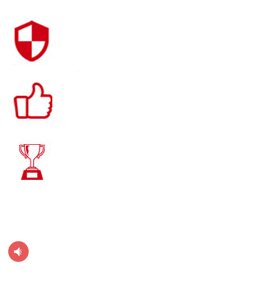
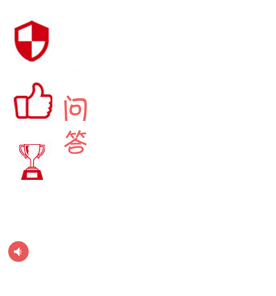
news

Changed region(s): [[0.2319, 0.3041, 0.3188, 0.5473]]

diff --git a/api.js b/api.js
@@ -11,57 +11,6 @@ var pool = mysql.createPool({
     database: 'qqzh'
 });
 
-var meituMenus = [
-    {url: '/all', type: 'all', name: '全部分类', title: '精品美图_美图写真_阿顺美图', keyword: '美女图片,美女写真,妹子,美女,mm,阿顺美图', desc: '阿顺美图专门收集整理全网超高清的美女写真网站,分享各类美女图片、丝袜美腿、性感MM、清纯妹子等极品美女写真;全部超高清无杂乱水印！'},
-    {url: '/t/nvshen/', type: 'nvshen', name: '女神', title: '女神_性感女神_宅男女神排行榜_超高清女神写真套图', keyword: '性感女神,宅男女神,女神图片,女神排行榜', desc: '阿顺美图整理的女神套图，都是宅男心目中的性感女神、所有图片都是超高清，并有排行榜单'},
-    {url: '/t/jipin/', type: 'jipin', name: '极品', title: '极品美女图片_超高清极品美女写真套图', keyword: '极品美女,极品美女图,极品美女写真', desc: '阿顺美图整理的极品美女写真套图，全部超高清，有极品性感美女，极品清纯美女，极品诱惑美女，日本极品美女等'},
-    {url: '/t/nenmo/', type: 'nenmo', name: '嫩模', title: '嫩模_嫩模图片_日本嫩模写真_超高清嫩模套图在线欣赏', keyword: '嫩模图片,嫩模写真,日本嫩模', desc: '在线欣赏阿顺美图整理的超高清嫩模写真套图;包括国产性感嫩模图片,日本嫩模写真套图,台湾美腿嫩模等'},
-    {url: '/t/wangluohongren/', type: 'wangluohongren', name: '网络红人', title: '网络红人_网络红人美女_网络红人图片_网络红人排行榜', keyword: '网络红人图片,网络红人美女', desc: '阿顺美图整理的超高清网络红人美女图片'},
-    {url: '/t/fengsuniang/', type: 'fengsuniang', name: '风俗娘', title: '风俗娘|韩国风俗媚娘全套图_超高清韩国风俗娘官网全集套图', keyword: '风俗娘,风俗媚娘,韩国风俗娘,韩国风俗媚娘,风俗娘官网图片', desc: '在线欣赏阿顺美图整理的韩国风俗娘官网的全集套图;全部都是无水印,原尺寸的高清大图'},
-    {url: '/t/qizhi/', type: 'qizhi', name: '气质', title: '气质美女图片_气质美女生活照_超高清气质美女写真套图', keyword: '气质美女,气质美女生活照,气质美女图片', desc: '阿顺美图整理的气质美女写真套图，全部超高清；包括一些气质美女图片、生活照及一些性感的气质美女'},
-    {url: '/t/youwu/', type: 'youwu', name: '尤物', title: '性感尤物_尤物美女图片|超高清极品尤物写真套图', keyword: '尤物,尤物美女,性感尤物,尤物写真', desc: '阿顺美图整理的尤物美女写真套图，所有图片全部超高清，快来领略香艳尤物的养眼美图吧'},
-    {url: '/t/baoru/', type: 'baoru', name: '爆乳', title: '爆乳_爆乳美女诱惑_爆乳肥臀_爆乳妹子_超高清爆乳MM写真图片', keyword: '爆乳美女,爆乳诱惑,爆乳肥臀,爆乳妹子图片', desc: '阿顺美图整理的爆乳美女写真套图，海量超高清爆乳妹子、爆乳肥臀、丝袜诱惑等爆乳美女图片'},
-    {url: '/t/xinggan/', type: 'xinggan', name: '性感', title: '性感美女_超性感美女图片_超高清性感美女写真套图', keyword: '性感,性感美女,高清性感美女图片,超高清性感美女图', desc: '阿顺美图精选的性感美女写真套图，全部超高清；而且是超性感哦'},
-    {url: '/t/youhuo/', type: 'youhuo', name: '诱惑', title: '美女诱惑_性感美女诱惑图片_超高清诱惑美女写真套图', keyword: '诱惑图片,美女诱惑,诱惑美女写真,诱惑套图', desc: '阿顺美图精选整理的诱惑美女写真套图，室内诱惑，野外诱惑，场景诱惑，全部超高清！'},
-    {url: '/t/meixiong/', type: 'meixiong', name: '美胸', title: '美胸_美胸美女图片_超高清美胸模特写真套图', keyword: '美胸美女,美胸图片,高清美胸图', desc: '阿顺美图整理超高清美胸美女模特的写真套图，有日本的美胸美女，也是中国的美胸美女和欧美的'},
-    {url: '/t/shaofu/', type: 'shaofu', name: '少妇', title: '少妇_性感少妇图片_寂寞少妇_风骚少妇写真_超高清少妇图片大全', keyword: '少妇图片,性感少妇,寂寞少妇,风骚少妇', desc: '阿顺美图整理的极品少妇图片，全部超高清，都是套图。包括性感少妇、寂寞少妇、风骚少妇等少妇图片'},
-    {url: '/t/changtui/', type: 'changtui', name: '长腿', title: '长腿美女图片_街拍长腿美女_长腿丝袜_超短裙长腿美女_超高清长腿美女写真套图', keyword: '长腿美女,长腿丝袜,街拍长腿美女,超短裙长腿美女', desc: '阿顺美图整理的长腿美女图片, 高跟鞋长腿美女,都是超高清的图片,有专业的长腿丝袜美女写真套图、也有街拍长腿美女；'},
-    {url: '/t/mengmeizi/', type: 'mengmeizi', name: '萌妹子', title: '萌妹子_萌妹纸图片_超高清萌妹子写真套图', keyword: '萌妹子,天然萌妹子,萌妹纸图片,萌妹子写真', desc: '阿顺美图整理的萌妹子(萌妹纸)图片，都是超高清的大图！快来欣赏萌翻你的萌妹子吧'},
-    {url: '/t/loli/', type: 'loli', name: '萝莉', title: '萝莉_萝莉控_日本萝莉_巨乳萝莉|超高清小萝莉写真套图', keyword: '小萝莉,日本萝莉,萝莉控,巨乳萝莉,萝莉写真套图', desc: '阿顺美图整理的萝莉美女写真套图，有日本萝莉、巨乳萝莉，清新萝莉妹子，萝莉控们有福了，全部都是超高清的图片'},
-    {url: '/t/keai/', type: 'keai', name: '可爱', title: '可爱美女_清纯可爱美女图片_超高清日本性感可爱美女写真套图', keyword: '可爱美女图片,性感可爱美女,清纯可爱美女', desc: '阿顺美图整理的可爱美女写真套图，全部超高清，有日本性感的可爱美女写真，也有国产的清纯可爱美女图片'},
-    {url: '/t/huwai/', type: 'huwai', name: '户外', title: '户外美女_户外美女图片_美女户外照片_超高清户外美女写真', keyword: '户外美女,户外美女摄影,美女户外照片,户外美女写真', desc: '阿顺美图精选的超高清户外美女写真图片,包括户外美女摄影、户外美女模特照片、户外清纯美女等图片'},
-    {url: '/t/bijini/', type: 'bijini', name: '比基尼', title: '比基尼美女_性感比基尼美女图片_超高清日本比基尼美女|中国比基尼图片', keyword: '比基尼,中国比基尼美女,日本比基尼美女,性感比基尼', desc: '阿顺美图整理的比基尼美女图片，有日本比基尼美女，也有性感的中国比基尼图片；都是超高清的写真套图'},
-    {url: '/t/qingchun/', type: 'qingchun', name: '清纯', title: '清纯美女图片_超高清清纯美女写真_清纯美女生活照', keyword: '清纯美女,清纯美女图,清纯美女写真,清纯美女生活照', desc: '阿顺美图精选的清纯美女写真套图，全部超高清，有清纯唯美类、有清新校园类，也有清新萝莉类'},
-    {url: '/t/weimei/', type: 'weimei', name: '唯美', title: '唯美美女_清纯唯美美女图片_超高清唯美美女写真', keyword: '唯美美女图片,天然唯美,乡村唯美,清纯唯美美女,唯美美女写真', desc: '阿顺美图整理的唯美美女图片,天然唯美,乡村唯美,清纯唯美美女,唯美美女写真'},
-    {url: '/t/qingxin/', type: 'qingxin', name: '清新', title: '清新美女_唯美清新美女图_超高清清新小美女图片', keyword: '清新美女,清新小美女图,清新美女图片', desc: '阿顺美图整理的清新美女图片都是超高清的套图，唯美贴近自然的清新小美女'}
-];
-var xingwenMenus = [
-    {url: '/all', type: 'all', name: '全部分类', title: '星闻_日韩星闻_港台星闻_内地星闻', keyword: '写真,最新新闻,娱乐资讯,明星资料,资料,个人资料,高清写真,生活照,剧照,主要作品,主演电影,主演电视', desc: '情趣综合平台为大家提供,明星娱乐八卦新闻,明星绯闻,影视资讯,音乐资讯,八卦爆料,娱乐视频等'},
-    {url: '/news/index?type=hdxz&p=', type: 'huodong', name: '活动', title: '活动现场', keyword: '最新新闻活动,娱乐资讯活动,生活照活动,剧照活动,主要作品活动,电影电视活动', desc: '情趣综合平台为大家提供,明星娱乐八卦活动,明星绯闻活动,影视资讯活动,音乐资讯活动,爆料、娱乐视频、等活动'},//35
-    {url: '/news/index?type=fwbg&p=', type: 'feiwen', name: '绯闻', title: '绯闻八卦', keyword: '最新绯闻八卦,娱乐资讯绯闻八卦,高清写真绯闻八卦,生活照、剧照绯闻八卦,电影、电视绯闻八卦', desc: '情趣综合平台为大家提供,明星娱乐绯闻八卦,影视、音乐绯闻八卦'},//30
-    {url: '/news/index?type=tupian&p=', type: 'tupian', name: '图片', title: '星图娱乐圈', keyword: '最新星图,星图资讯,星图资料,星图写真,生活星图', desc: '情趣综合平台为大家提供,港台星图,内地星图,其他星图解说'},//60
-    {url: '/news/index?type=baoliaotai&p=', type: 'baoliaotai', name: '爆料台', title: '爆料星闻台', keyword: '最新爆料,娱乐爆料,明星爆料,高清爆料写真,生活照、剧照爆料', desc: '情趣综合平台为大家提供,明星爆料,爆料明星绯闻,爆料影视资讯,音乐爆料资讯等'},//10
-    {url: '/news/index?type=zyxw&p=', type: 'zongyi', name: '综艺', title: '综艺星闻资源', keyword: '最新综艺,娱乐综艺,综艺高清写真,主演电影、主演电视综艺', desc: '情趣综合平台为大家提供,明星综艺新闻,影视、音乐,娱乐综艺信息'},
-    {url: '/news/index?type=dsxw&p=', type: 'dianshi', name: '电视', title: '电视星闻', keyword: '最新电视,高清星闻电视,主要作品、主演电视', desc: '情趣综合平台为大家提供,明星电视,明星绯闻电视,最新电视资讯'},//21
-    {url: '/news/index?type=dyxw&p=', type: 'dianying', name: '电影', title: '电影星闻', keyword: '最新电影咨询,明星电影资料,主要电影作品,电影主演,电影角色', desc: '情趣综合平台为大家提供,电影资讯信息,电影上映,电影演员,电影情况,线下电影星闻情况'},//34
-    {url: '/news/index?type=yyxw&p=', type: 'yinyue', name: '音乐', title: '音乐星闻', keyword: '最新明星音乐,娱乐音乐,高清音乐写真,生活音乐照,音乐主要作品', desc: '情趣综合平台为大家提供,音乐新闻,明星绯闻,2019音乐,音乐媒体相关等资讯'},//20
-    {url: '/news/index?type=mxdt&p=', type: 'dongtai', name: '动态', title: '星闻动态', keyword: '动态更新,娱乐动态,明星动态,高清写真动态,生活动态,主要作品动态、主演电影动态、主演电视动态', desc: '情趣综合平台为大家提供,明星娱乐八卦动态,绯闻动态,动态影视资讯,音乐动态资讯,八卦爆料、娱乐视频等动态更新情况'},//67
-];
-var childMenus = {
-    meitu: meituMenus,
-    xingwen: xingwenMenus
-}
-
-function filterTitle(items) {
-    var substr = '';
-    for (var i = 0; i < items.length; i++) {
-        substr = items[i].title.match(/\[(\S*)\]/);
-        if (substr && substr[0]) {
-            items[i].title = items[i].title.replace(substr[0], '');
-        }
-    }
-    return items;
-}
 function getClientIP(req) {
     return req.headers['x-forwarded-for'] || // 判断是否有反向代理 IP
         req.connection.remoteAddress || // 判断 connection 的远程 IP
@@ -113,6 +62,16 @@ router.get('/aboutUs', function(req, res) {
     }
     res.render('about_us', listObj);
 })
+
+// 站内新闻
+router.get('/news', function(req, res) {
+    var listObj = {
+        domain: domain,
+        terminal: req.terminal
+    }
+    res.render('news', listObj);
+})
+
 
 // 列表页
 router.get('/meitu', function (req, res) {

diff --git a/public/html/map.html b/public/html/map.html
@@ -2,26 +2,45 @@
 <html lang="en">
 <head>
   <meta charset="UTF-8">
-  <meta name="viewport" content="width=device-width, initial-scale=1.0">
-  <meta http-equiv="X-UA-Compatible" content="ie=edge">
-  <title>购买贵溪土鸡要怎么走？</title>
-</head>
-<body>
-    <div id="dituContent" class="ditu-content"></div>
+    <meta name="viewport" content="width=device-width, initial-scale=1.0">
+    <meta http-equiv="X-UA-Compatible" content="ie=edge">
+    <title>购买贵溪土鸡要怎么走？</title>
     <style>
+        *{
+            margin: 0;
+            padding: 0;
+        }
+        img{
+            width: 100%;
+        }
         .ditu-content{
-            width:100%;
-            height:400px;
-            border:#f1f1f1 solid 1px;
             width: 1060px;
+            height:398px;
+            border:#f1f1f1 solid 1px;
             margin: 0 auto;
         }
-        .iw_poi_title {color:#CC5522;font-size:14px;font-weight:bold;overflow:hidden;padding-right:13px;white-space:nowrap}
-        .iw_poi_content {font:12px arial,sans-serif;overflow:visible;padding-top:4px;white-space:-moz-pre-wrap;word-wrap:break-word}
+        .iw_poi_title {
+            color:#CC5522;
+            font-size:14px;
+            font-weight:bold;
+            overflow:hidden;
+            padding-right:13px;
+            white-space:nowrap;
+        }
+        .iw_poi_content {
+            font:12px arial,sans-serif;
+            overflow:visible;
+            padding-top:4px;
+            white-space:-moz-pre-wrap;
+            word-wrap:break-word;
+        }
         .BMapLabel{
             display: none !important;
         }
     </style>
+</head>
+<body>
+    <div id="dituContent" class="ditu-content"></div>
     <script type="text/javascript" src="http://api.map.baidu.com/api?key=&v=1.1&services=true"></script>
     <script>
         //创建和初始化地图函数：
@@ -62,7 +81,7 @@
             }
             
             //标注点数组
-            var markerArr = [{title:"贵溪土鸡",content:"江西省、 鹰潭市、贵溪市、流口镇官庄村。贵溪散养土鸡养殖出厂地，电话：13687011233。欢迎前来购买",point:"117.25112|28.176348",isOpen:1,icon:{w:30,h:45,l:0,t:0,x:6,lb:5}}
+            var markerArr = [{title:"贵溪土鸡",content:"江西省、 鹰潭市、贵溪市、流口镇官庄村。<br/>贵溪散养土鸡养殖出厂地，电话：13687011233。欢迎前来购买",point:"117.25112|28.176348",isOpen:1,icon:{w:30,h:45,l:0,t:0,x:6,lb:5}}
                 ];
             //创建marker
             function addMarker(){

diff --git a/public/css/style.css b/public/css/style.css
@@ -446,21 +446,81 @@ body{
   left: 10px;
 }
 #my-map{
-  width:100%;
+  width: 100%;
   height:400px;
-  border:#f1f1f1 solid 1px;
-  width: 1060px;
-  margin: 0 auto;
 }
-.map-point .ditu-content{
-  width:100%;
-  height:400px;
-  border:#f1f1f1 solid 1px;
-  width: 1060px;
-  margin: 0 auto;
+/* 站内列表新闻 */
+.news-cont{
+  /* display: flex;
+  justify-content: space-between; */
+  margin-top: 10px;
+  position: relative;
 }
-.iw_poi_title {color:#CC5522;font-size:14px;font-weight:bold;overflow:hidden;padding-right:13px;white-space:nowrap}
-.iw_poi_content {font:12px arial,sans-serif;overflow:visible;padding-top:4px;white-space:-moz-pre-wrap;word-wrap:break-word}
-.BMapLabel{
-    display: none !important;
+.news-cont .list-title{
+  font-size: 24px;
+  margin-top: 20px;
+  margin-bottom: 15px;
+}
+.news-cont .news-list{
+  width: 740px;
+  min-height: 645px;
+}
+.news-cont .news-list li{
+  line-height: 50px;
+  height: 50px;
+  border-bottom: 1px solid #eee;
+}
+.news-cont .news-list li:last-child{
+  border: 0;
+}
+.news-cont .news-list li a{
+  font-size: 18px;
+  color: rgb(58, 58, 58);
+  display: inline-block;
+  max-width: 500px;
+  white-space: nowrap;
+  overflow: hidden;
+  text-overflow: ellipsis;
+  float: left;
+}
+.news-cont .news-list li a:hover{
+  color: #f26363;
+}
+.news-cont .news-list li span{
+  float: right;
+  color: #696969;
+  font-size: 12px;
+  /* margin-top: 10px; */
+}
+.news-cont .life-tuijian{
+  width: 330px;
+  border: 1px solid #eee;
+  padding: 0 10px;
+  position: absolute;
+  top: 0;
+  right: 0;
+}
+.news-cont .life-tuijian .column-title span{
+  font-size: 16px;
+}
+.news-cont .life-tuijian ul{
+  display: flex;
+  justify-content: space-between;
+  flex-wrap: wrap;
+}
+.news-cont .life-tuijian li{
+  width: 149px;
+  margin-bottom: 10px;
+  height: 112px;
+}
+.news-cont .life-tuijian li img{
+  float: left;
+}
+.question p i{
+  display: inline-block;
+  background: url(../img/icon.png) no-repeat left center; 
+  width: 22px;
+  height: 24px;
+  background-position: -46px -70px;
+  background-size: 210px;
 }
